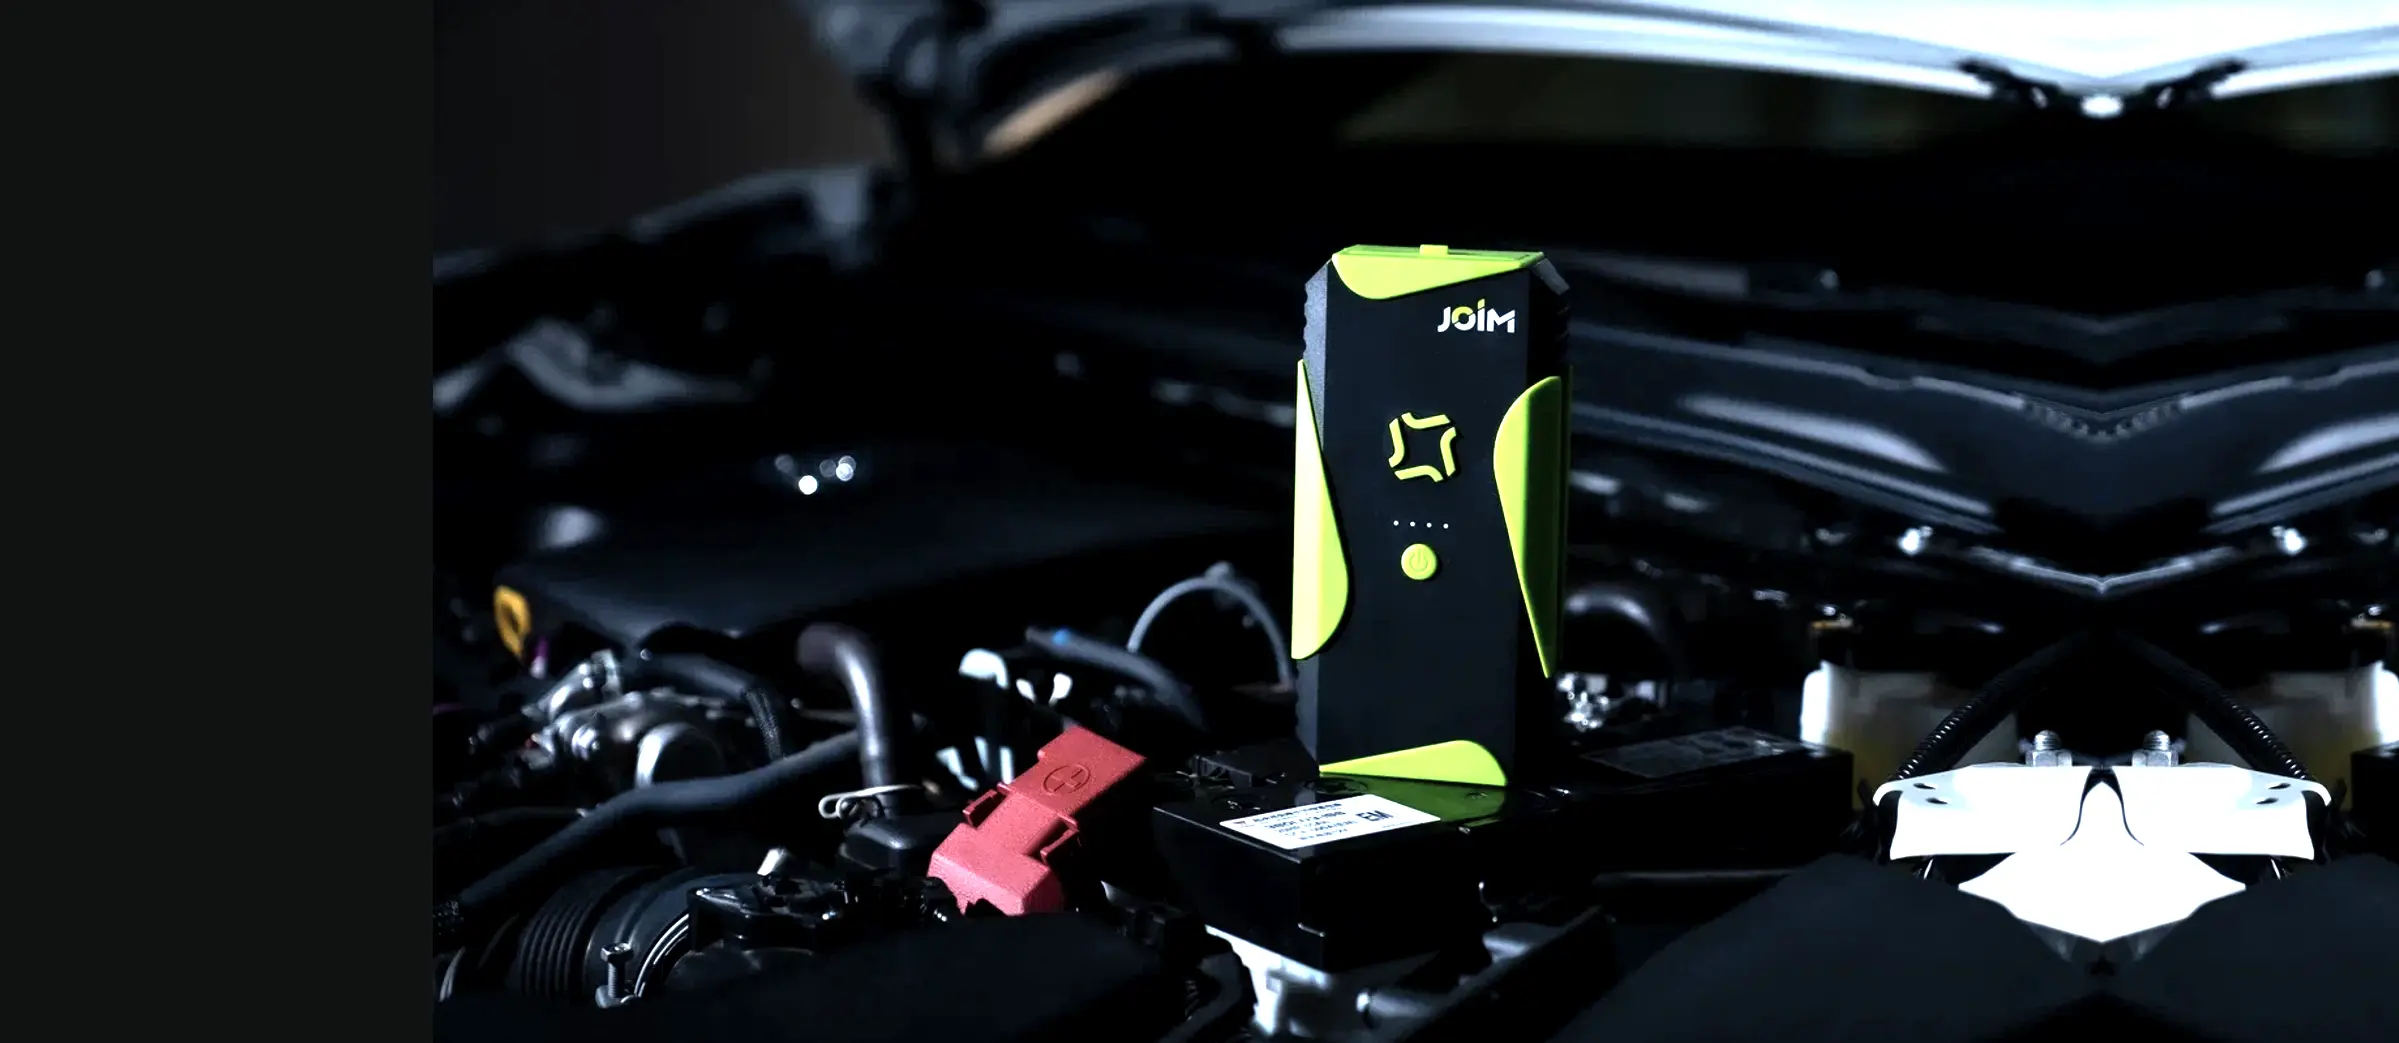
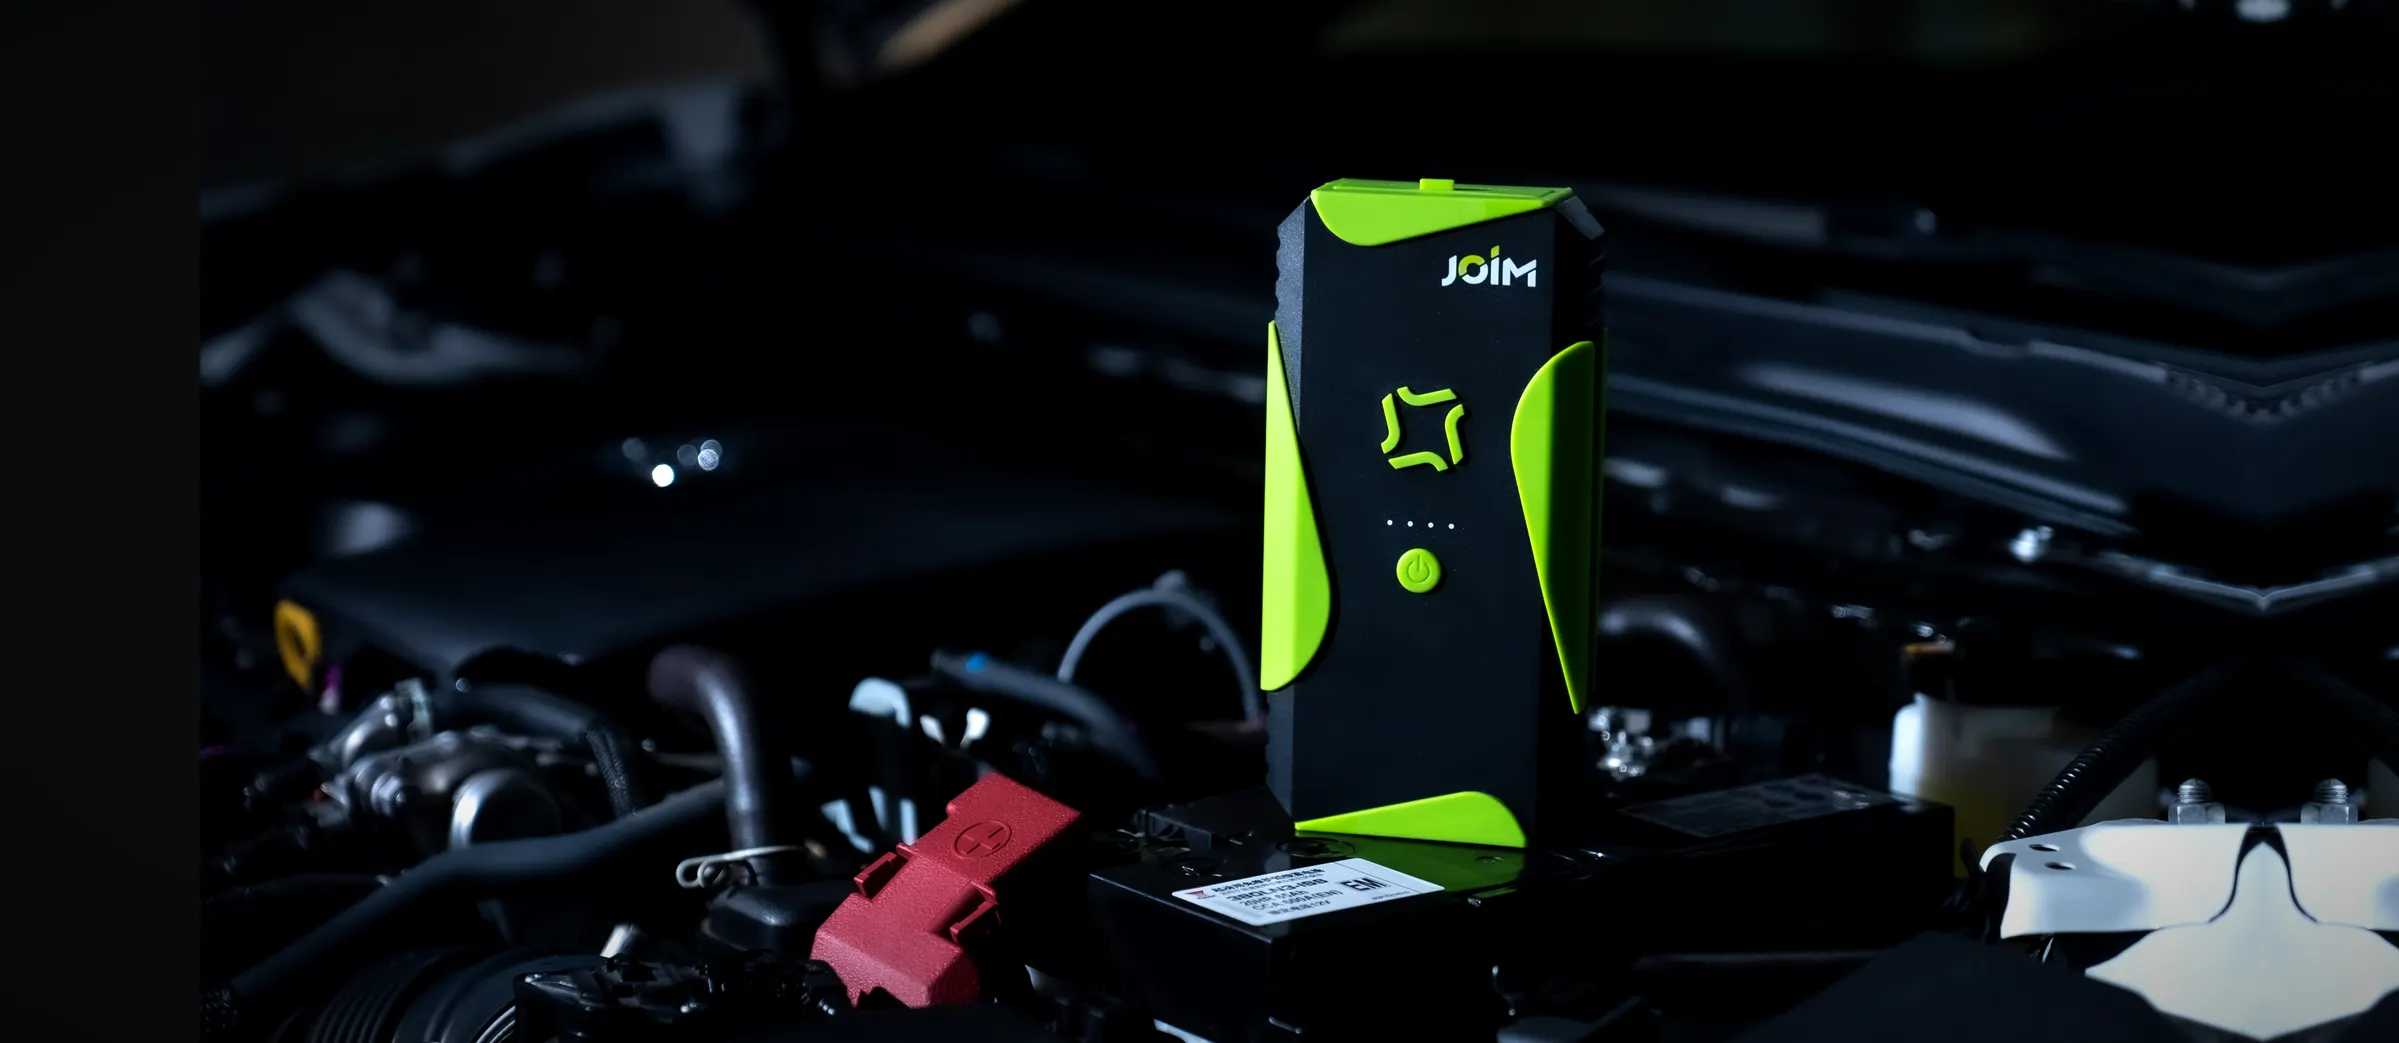
Свечение убрано, второй кадр крупнее, карточки с одного пакшота
- hero: пятно яркости и радиальная завеса заменены виньеткой в кадре
- второй слайд и подложка анкеты пересобраны из оригиналов 3000 px
  вместо присланных 1280 — прибор крупнее и без потери резкости
- анкета: контраст кадра поднят, завеса направленная, зелёное пятно снято
- три плитки товаров вырезаны из одного присланного кадра

diff --git a/components/sections/Hero.tsx b/components/sections/Hero.tsx
@@ -81,14 +81,10 @@ export function Hero() {
         <div className="absolute inset-x-0 bottom-0 h-[22rem] bg-[linear-gradient(to_top,var(--color-void)_26%,rgba(17,19,19,0.55)_58%,transparent)]" />
         <div className="absolute inset-x-0 top-0 h-28 bg-[linear-gradient(to_bottom,rgba(17,19,19,0.8),transparent)]" />
 
-        {/* Акцент на приборе. Затемняем всё, кроме пятна над ним:
-            прибор остаётся в своей яркости, а окружение уходит вниз —
-            так «ярче» получается без осветления, от которого кадр
-            выцветает. Центр — 63% ширины: прибор стоит на 65% при 1280,
-            на 63% при 1440 и на 60% при 1912 — кадр держится за середину
-            экрана, а не за его край. Радиус взят с запасом, чтобы накрыть
-            весь этот разброс. */}
-        <div className="absolute inset-0 hidden bg-[radial-gradient(44%_50%_at_63%_48%,transparent_0%,rgba(17,19,19,0.2)_44%,rgba(17,19,19,0.62)_100%)] lg:block" />
+        {/* Радиального пятна вокруг прибора здесь больше нет: вместе
+            с осветлением в самом кадре оно давало видимый овал —
+            «свечение». Тень к краям теперь одна и запечена в кадр
+            виньеткой, см. `scripts/prepare-hero.mjs`. */}
       </div>
 
       {/* Фирменные линии поверх кадра — тише, чем на пустом фоне */}

diff --git a/components/sections/LeadForm.tsx b/components/sections/LeadForm.tsx
@@ -63,14 +63,14 @@ export function LeadForm() {
               sizes="(max-width: 1023px) 100vw, 1200px"
               className="object-cover object-[42%_12%]"
             />
-            <div className="absolute inset-0 hidden bg-[linear-gradient(102deg,rgba(29,33,31,0.93)_0%,rgba(29,33,31,0.88)_34%,rgba(29,33,31,0.8)_52%,rgba(29,33,31,0.92)_74%,rgba(29,33,31,0.96)_100%)] lg:block" />
+            {/* Завеса плотная там, где текст и поля, и отпускает кадр
+                внизу слева, где стоит предмет. Раньше она шла ровно
+                и глушила снимок целиком. */}
+            <div className="absolute inset-0 hidden bg-[linear-gradient(168deg,rgba(29,33,31,0.95)_0%,rgba(29,33,31,0.9)_34%,rgba(29,33,31,0.72)_58%,rgba(29,33,31,0.5)_82%,rgba(29,33,31,0.44)_100%)] lg:block" />
+            <div className="absolute inset-0 hidden bg-[linear-gradient(to_right,transparent_0%,transparent_38%,rgba(29,33,31,0.5)_62%,rgba(29,33,31,0.72)_100%)] lg:block" />
             <div className="absolute inset-0 bg-[linear-gradient(to_bottom,rgba(29,33,31,0.9),rgba(29,33,31,0.94))] lg:hidden" />
           </div>
 
-          <div
-            aria-hidden="true"
-            className="pointer-events-none absolute inset-x-0 -top-1/2 -z-10 h-[560px] animate-drift bg-[radial-gradient(closest-side,rgba(140,197,63,0.1),transparent_70%)]"
-          />
           <div
             aria-hidden="true"
             className="pointer-events-none absolute inset-0 -z-10 brand-lines opacity-40"

diff --git a/assets/scenes/SOURCES.md b/assets/scenes/SOURCES.md
@@ -1,0 +1,22 @@
+# Мастера фонов
+
+Кадры, которые лежат подложками, а не пакшотами товара: первый экран,
+«три шага до запуска», анкета. В `assets/images-raw/` им не место —
+оттуда всё подряд забирает `prepare-product-images.mjs` и кладёт
+в `public/images/products/`.
+
+Собираются скриптом `scripts/prepare-hero.mjs` (первый экран и анкета).
+Кадры «трёх шагов» заказчик прислал файлами, они конвертированы разово.
+
+| Файл | Откуда | Где стоит |
+| --- | --- | --- |
+| `hero-1-source.jpg` | `…/18.12.24 (JOIM ES-19, ES-9)/Es-19/` | первый экран, кадр 1 |
+| `hero-2-source.jpg` | `…/Es-19/DSC09029.jpg` | первый экран, кадр 2 |
+| `lead-source.jpg` | `…/Es-19/DSC09178.jpg` | подложка анкеты |
+| `step-case-source.webp` | прислан заказчиком | «достать из кейса» |
+| `step-clamps-source.webp` | прислан заказчиком | «накинуть клеммы» |
+| `step-key-source.webp` | прислан заказчиком | «повернуть ключ» |
+
+Второй кадр первого экрана и подложку анкеты заказчик прислал в 1280 px.
+На сайте они кадрируются, и присланного разрешения не хватало: взяты те же
+кадры с диска в 3000 px. Присланные файлы удалены как дубли.
